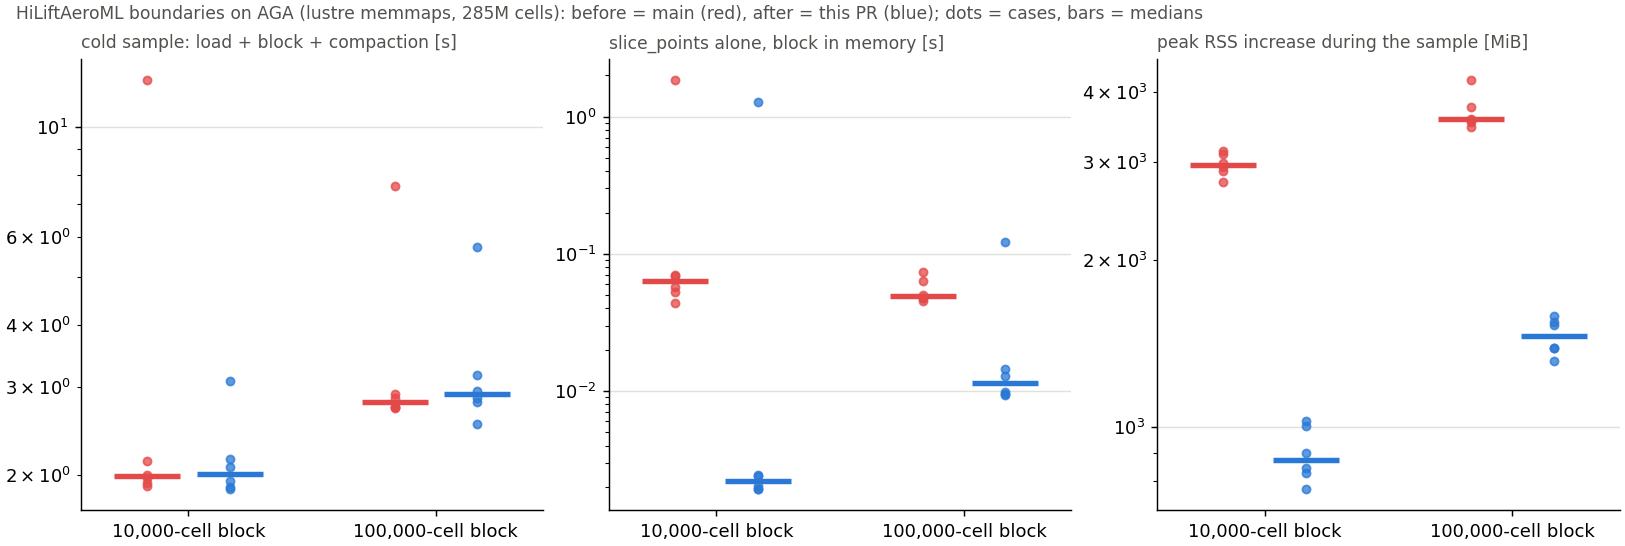
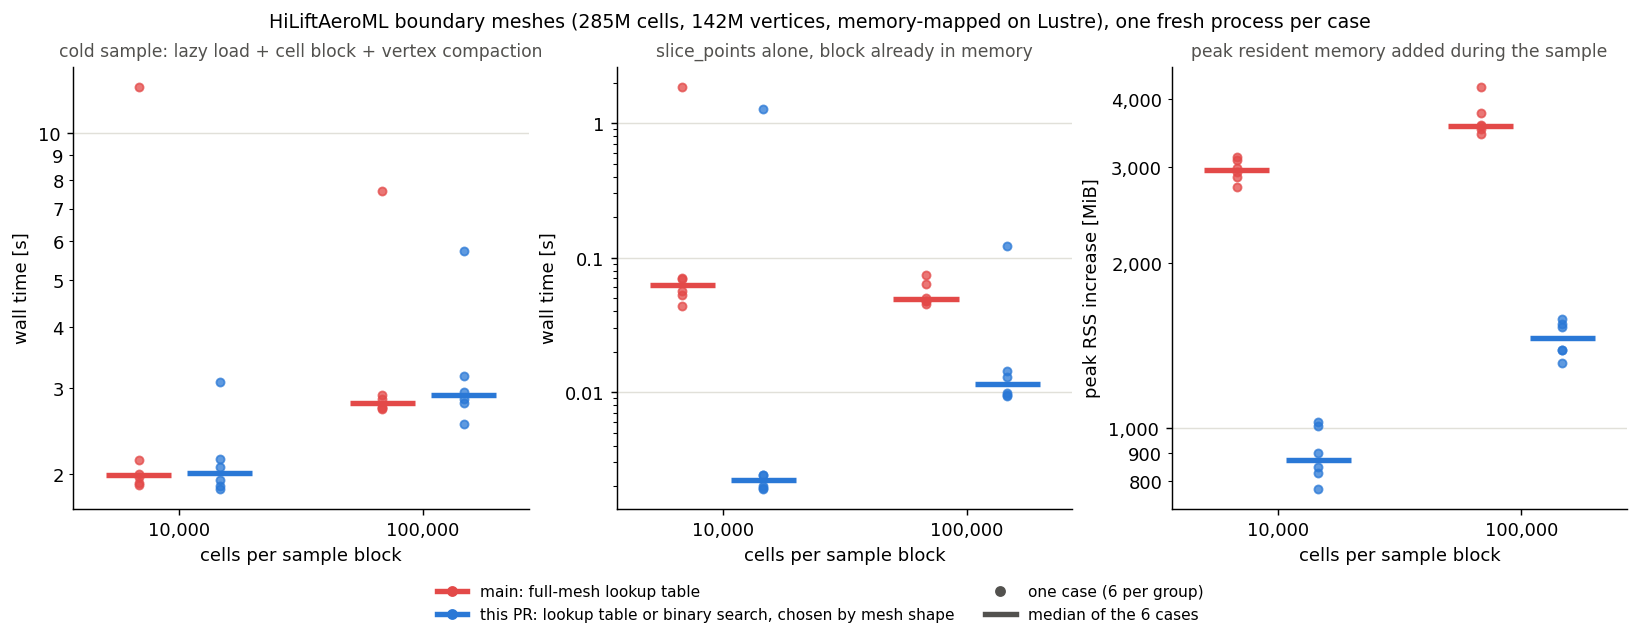
Self-contained figures: legends, labeled axes, named implementations

diff --git a/scripts/analyze_bench1966.py b/scripts/analyze_bench1966.py
@@ -13,6 +13,7 @@ from pathlib import Path
 import matplotlib
 matplotlib.use("Agg")
 import matplotlib.pyplot as plt
+from matplotlib.ticker import FuncFormatter, NullFormatter
 
 D = Path(sys.argv[1]); OUT = Path(sys.argv[2]); OUT.mkdir(parents=True, exist_ok=True)
 BLUE, RED, INK2, GRID = "#2a78d6", "#e34948", "#52514e", "#e1e0d9"
@@ -63,19 +64,43 @@ def synth_table(g, key_labels, impls=("before", "after", "search_only")):
     return rows
 
 
-def synth_figure(g, path, title, xlabel, emphasize, series_key):
-    fig, ax = plt.subplots(figsize=(7.2, 4.4), constrained_layout=True)
-    for impl, c in (("before", RED), ("after", BLUE), ("search_only", GREY)):
-        for b, ls in (("memory", "-"), ("memmap", "--")):
-            for s in sorted({series_key(k) for k in g}):
-                pts = sorted((k[0], med([r["seconds"] for r in g[k][impl]])) for k in g if k[2] == b and series_key(k) == s and g[k][impl])
+IMPLS = (  # (record label, legend label, colour)
+    ("before", "main: full-mesh lookup table", RED),
+    ("after", "this PR: lookup table or binary search, chosen by mesh shape", BLUE),
+    ("search_only", "rejected first version: binary search always", GREY),
+)
+BACKINGS = (("memory", "mesh in memory", "-"), ("memmap", "mesh memory-mapped from disk", "--"))
+
+
+def _legend(fig, backings=True):
+    from matplotlib.lines import Line2D
+    handles = [Line2D([], [], color=c, lw=2, marker="o", ms=4, label=lab) for _, lab, c in IMPLS]
+    if backings:
+        handles += [Line2D([], [], color=INK2, lw=1.5, ls=ls, label=lab) for _, lab, ls in BACKINGS]
+    fig.legend(handles=handles, loc="outside lower center", ncol=2, fontsize=8.5)
+
+
+def synth_figure(g, path, suptitle, xlabel, panel_key, panel_title):
+    """One panel per value of ``panel_key`` (a component of the group key);
+    colour = implementation, line style = storage backing."""
+    panels = sorted({k[panel_key] for k in g})
+    fig, axes = plt.subplots(1, len(panels), figsize=(4.0 * len(panels), 4.6), sharex=True, sharey=True,
+                             constrained_layout=True)
+    for ax, pv in zip(axes, panels):
+        for impl, _, c in IMPLS:
+            for b, _, ls in BACKINGS:
+                pts = sorted((k[0], med([r["seconds"] for r in g[k][impl]]))
+                             for k in g if k[panel_key] == pv and k[2] == b and g[k][impl])
                 if pts:
                     xs, ys = zip(*pts)
-                    ax.plot(xs, ys, color=c, ls=":" if impl == "search_only" else ls, marker="o", ms=4,
-                            alpha=0.95 if s == emphasize else 0.4, lw=1.8 if s == emphasize else 1.0)
-    ax.set_xscale("log"); ax.set_yscale("log"); ax.set_xlabel(xlabel); ax.set_ylabel("time [s]")
-    ax.set_title(title, loc="left", fontsize=9, color=INK2)
-    fig.savefig(OUT / path); plt.close(fig)
+                    ax.plot(xs, ys, color=c, ls=ls, marker="o", ms=4, lw=1.8)
+        ax.set_xscale("log"); ax.set_yscale("log")
+        ax.set_title(panel_title(pv, g), fontsize=9.5, color=INK2)
+        ax.set_xlabel(xlabel)
+    axes[0].set_ylabel("wall time [s]")
+    fig.suptitle(suptitle, fontsize=10.5)
+    _legend(fig)
+    fig.savefig(OUT / path, bbox_inches="tight"); plt.close(fig)
 
 
 p = D / "bench_slice_points_local.json"
@@ -83,12 +108,12 @@ if p.exists():
     g = load_with_searchonly(p, "bench1966_synth_full_searchonly.json", ("n_points", "k", "backing"))
     md += ["### Synthetic, `slice_points` on the full mesh", "",
            "Keep k random vertices of an N-vertex triangle mesh (2N random cells, one scalar and one vector point field), on one AGA node. Median of 3 runs. The third column is the first version of this PR (binary search always), kept to show why the algorithm is chosen by shape.", "",
-           "| N vertices | k kept | backing | before | after (this PR) | search only (rejected) | speed-up after/before |", "|---|---|---|---|---|---|---|"]
+           "| N vertices | k kept | backing | main: lookup table | this PR: table or search, by shape | rejected: search always | speed-up, this PR vs main |", "|---|---|---|---|---|---|---|"]
     md += synth_table(g, lambda key: (f"{key[0]:,}", f"{key[1]:,}", key[2]))
     md.append("")
     synth_figure(g, "synthetic_full_mesh.png",
-                 "slice_points on the full mesh, keeping k of N vertices\nbefore = red, after = blue, search-only = grey dotted\nsolid = in memory, dashed = memmap; k = 1e3 / 3e4 / 1e6, 3e4 emphasized",
-                 "N vertices", 30000, lambda k: k[1])
+                 "Mesh.slice_points on a whole mesh: keep k random vertices of an N-vertex triangle mesh with 2N cells (median of 3 runs)",
+                 "N, vertices in the mesh", 1, lambda k, g: f"keep k = {k:,} vertices")
 
 # ---------- synthetic, reader path ----------
 p = D / "bench_slice_points_block_local.json"
@@ -96,16 +121,19 @@ if p.exists():
     g = load_with_searchonly(p, "bench1966_synth_block_searchonly.json", ("n_points", "k_cells", "backing"))
     md += ["### Synthetic, the reader's path (cell block, then vertex compaction)", "",
            "`slice_cells(block)` then `slice_points(unique(cells))`: the mesh reader's per-sample operation, on one AGA node. The block is already small; the cost that matters is how compaction scales with the size of the mesh it came from. Median of 3 runs.", "",
-           "| N vertices | block cells | kept vertices | backing | before | after (this PR) | search only | speed-up after/before |", "|---|---|---|---|---|---|---|---|"]
+           "| N vertices | block cells | kept vertices | backing | main: lookup table | this PR: table or search, by shape | rejected: search always | speed-up, this PR vs main |", "|---|---|---|---|---|---|---|---|"]
     def _labels(key):
         n, kc, b = key
         kp = next(r["k_points"] for i in ("after", "before") for r in g[key][i])
         return (f"{n:,}", f"{kc:,}", f"{kp:,}", b)
     md += synth_table(g, _labels)
     md.append("")
+    def _panel_title(kc, g):
+        kp = [next(r["k_points"] for i in ("after", "before") for r in g[k][i]) for k in g if k[1] == kc]
+        return f"block of {kc:,} cells (about {med(kp):,.0f} vertices kept)"
     synth_figure(g, "synthetic_reader_path.png",
-                 "reader path: a block of 1e4 / 1e5 cells, then vertex compaction\nbefore = red, after = blue, search-only = grey dotted\nsolid = in memory, dashed = memmap; 1e4-cell block emphasized",
-                 "N vertices of the source mesh", 10000, lambda k: k[1])
+                 "The mesh reader's per-sample path: slice_cells(block) then slice_points(unique(block cells)), on an N-vertex triangle mesh (median of 3 runs)",
+                 "N, vertices in the source mesh", 1, _panel_title)
 
 # ---------- HiLiftAeroML on AGA ----------
 p = D / "bench1966.jsonl"
@@ -117,7 +145,7 @@ if p.exists():
     g = group(recs, ("n_cells",))
     md += ["### HiLiftAeroML boundaries on the AGA cluster (lustre memmaps, cold per case)", "",
            "Real reader operation on 285M-cell / 142M-vertex surfaces: lazy memmap load, contiguous cell block, vertex compaction. Each measurement is a fresh process on a case no other measurement touched (cold page cache); the two packages alternate. Median (min–max) over 6 cases per row.", "",
-           "| block cells | metric | before (main) | after (PR) | speed-up |", "|---|---|---|---|---|"]
+           "| block cells | metric | main: lookup table | this PR: table or search, by shape | speed-up |", "|---|---|---|---|---|"]
     def stat(rs, k):
         v = [r[k] for r in rs if k in r]
         return (med(v), min(v), max(v)) if v else (float("nan"),) * 3
@@ -135,23 +163,37 @@ if p.exists():
     if errs:
         md.append(f"\n{len(errs)} measurement(s) errored: " + "; ".join(f"{e['impl']} {e['case']} {e['n_cells']}" for e in errs))
     md.append("")
-    fig, axes = plt.subplots(1, 3, figsize=(12.5, 4.2), constrained_layout=True)
-    for ax, key, title in ((axes[0], "subsample_cold_s", "cold sample: load + block + compaction [s]"),
-                           (axes[1], "slice_points_warm_s", "slice_points alone, block in memory [s]"),
-                           (axes[2], "subsample_peak_rss_delta_mib", "peak RSS increase during the sample [MiB]")):
+    from matplotlib.lines import Line2D
+    fig, axes = plt.subplots(1, 3, figsize=(12.5, 4.8), constrained_layout=True)
+    for ax, key, title, ylabel in (
+            (axes[0], "subsample_cold_s", "cold sample: lazy load + cell block + vertex compaction", "wall time [s]"),
+            (axes[1], "slice_points_warm_s", "slice_points alone, block already in memory", "wall time [s]"),
+            (axes[2], "subsample_peak_rss_delta_mib", "peak resident memory added during the sample", "peak RSS increase [MiB]")):
         for j, ((nc,), byimpl) in enumerate(sorted(g.items())):
-            for i, (impl, c) in enumerate((("before", RED), ("after", BLUE))):
+            for i, (impl, _, c) in enumerate(IMPLS[:2]):
                 v = [r[key] for r in byimpl[impl] if key in r]
                 x = j * 3 + i
                 ax.scatter([x] * len(v), v, color=c, s=20, alpha=0.75, zorder=3)
                 if v:
                     ax.hlines(med(v), x - 0.4, x + 0.4, color=c, lw=3, zorder=4)
         ax.set_xlim(-0.8, 4.8)
-        ax.set_xticks([0.5, 3.5]); ax.set_xticklabels([f"{nc:,}-cell block" for (nc,) in sorted(g)])
-        ax.set_yscale("log"); ax.set_title(title, loc="left", fontsize=9.5, color=INK2)
+        ax.set_xticks([0.5, 3.5]); ax.set_xticklabels([f"{nc:,}" for (nc,) in sorted(g)])
+        ax.set_xlabel("cells per sample block")
+        ax.set_yscale("log"); ax.set_ylabel(ylabel)
+        plain = FuncFormatter(lambda v, _: f"{v:,.0f}" if v >= 10 else f"{v:g}")
+        ax.yaxis.set_major_formatter(plain)
+        allv = [r[key] for byimpl in g.values() for impl in ("before", "after") for r in byimpl[impl] if key in r]
+        if max(allv) / min(allv) < 30:  # narrow range: label the minor ticks too
+            ax.yaxis.set_minor_formatter(plain)
+        else:
+            ax.yaxis.set_minor_formatter(NullFormatter())
+        ax.set_title(title, fontsize=9.5, color=INK2)
         ax.grid(axis="x", visible=False)
-    fig.suptitle("HiLiftAeroML boundaries on AGA (lustre memmaps, 285M cells): before = main (red), after = this PR (blue); dots = cases, bars = medians",
-                 fontsize=9.5, color=INK2, x=0.01, ha="left")
-    fig.savefig(OUT / "hilift_aga.png"); plt.close(fig)
+    fig.suptitle("HiLiftAeroML boundary meshes (285M cells, 142M vertices, memory-mapped on Lustre), one fresh process per case", fontsize=10.5)
+    handles = [Line2D([], [], color=c, lw=3, marker="o", ms=5, label=lab) for _, lab, c in IMPLS[:2]]
+    handles += [Line2D([], [], color=INK2, lw=0, marker="o", ms=5, label="one case (6 per group)"),
+                Line2D([], [], color=INK2, lw=3, label="median of the 6 cases")]
+    fig.legend(handles=handles, loc="outside lower center", ncol=2, fontsize=8.5)
+    fig.savefig(OUT / "hilift_aga.png", bbox_inches="tight"); plt.close(fig)
 
 print("\n".join(md))
